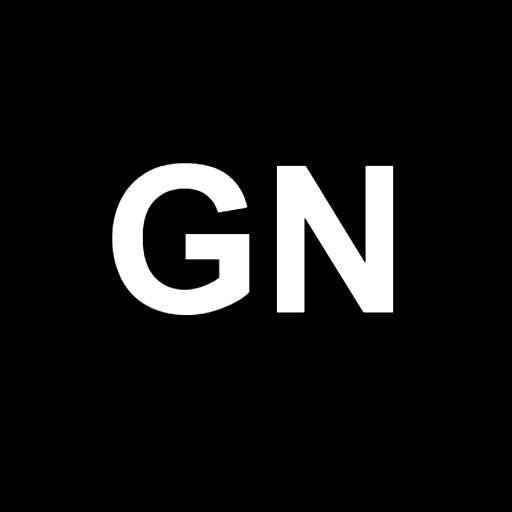
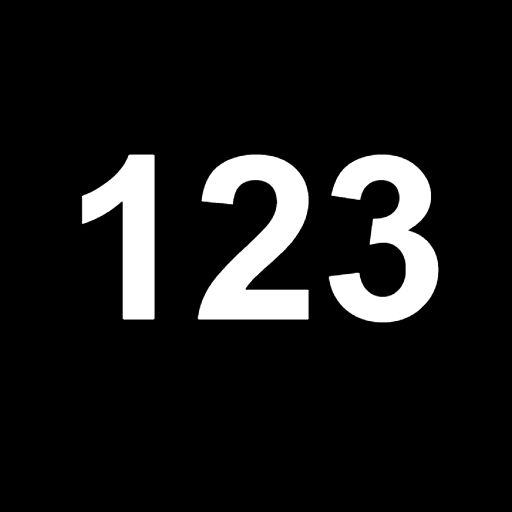
Major page enhancements.
Replaced the list selector for icon sizes with actual multi selectable checkboxes.
Added zip generation for icons to the downloads section of the page.
Added automatic manifest.json generation to the downloads section of the page.
Made it so the headings for generating and downloading icons are now hidden unless the buttons associated with them are pressed.
Added a combo box for selecting common icon sizes.

Changed region(s): [[0.1562, 0.2812, 0.875, 0.6562]]

diff --git a/code.js b/code.js
@@ -1,0 +1,160 @@
+function toggleCustomText()
+{
+    const style = document.getElementById("iconStyle").value;
+    const section = document.getElementById("customTextSection");
+
+    if(style === "custom")
+        section.style.display = "block";
+    else
+        section.style.display = "none";
+}
+
+function getText()
+{
+    const style = document.getElementById("iconStyle").value;
+    const custom = document.getElementById("customText").value;
+
+    if(style === "custom" && custom.trim() !== "")
+        return custom.substring(0,3);
+
+    return style;
+}
+
+function getSelectedSizes()
+{
+    const boxes = document.querySelectorAll("#iconSizes input[type=checkbox]");
+    const sizes = [];
+
+    boxes.forEach(box=>{
+        if(box.checked)
+        {
+            sizes.push(parseInt(box.value));
+        }
+    });
+
+    return sizes;
+}
+
+function drawIcon(size)
+{
+    const canvas = document.createElement("canvas");
+    canvas.width = size;
+    canvas.height = size;
+
+    const ctx = canvas.getContext("2d");
+
+    const bg = document.getElementById("bgColor").value;
+    const fg = document.getElementById("textColor").value;
+    const text = getText();
+
+    ctx.fillStyle = bg;
+    ctx.fillRect(0,0,size,size);
+
+    ctx.fillStyle = fg;
+    ctx.font = "bold " + (size * 0.45) + "px sans-serif";
+    ctx.textAlign = "center";
+    ctx.textBaseline = "middle";
+
+    ctx.fillText(text,size/2,size/2);
+
+    return canvas;
+}
+
+function generatePreview()
+{
+    document.getElementById("previewSection").style.display = "block";
+
+    const sizes = getSelectedSizes();
+
+    if(sizes.length === 0)
+    {
+        speak("Please select at least one icon size.");
+        return;
+    }
+
+    const preview = document.getElementById("previewCanvas");
+    const ctx = preview.getContext("2d");
+
+    const icon = drawIcon(sizes[0]);
+
+    preview.width = sizes[0];
+    preview.height = sizes[0];
+
+    ctx.clearRect(0,0,preview.width,preview.height);
+    ctx.drawImage(icon,0,0);
+
+    speak("Preview generated.");
+}
+
+function createManifest(sizes)
+{
+    const icons = [];
+
+    sizes.forEach(size=>{
+        icons.push({
+            src: "icon-" + size + ".png",
+            sizes: size + "x" + size,
+            type: "image/png"
+        });
+    });
+
+    return {
+        name: "Game",
+        short_name: "Game",
+        display: "standalone",
+        start_url: ".",
+        icons: icons
+    };
+}
+
+async function downloadIcons()
+{
+    document.getElementById("downloadSection").style.display = "block";
+
+    const downloads = document.getElementById("downloads");
+    downloads.innerHTML = "Preparing icon pack...";
+
+    const sizes = getSelectedSizes();
+
+    if(sizes.length === 0)
+    {
+        speak("Please select at least one icon size.");
+        return;
+    }
+
+    const zip = new JSZip();
+
+    for(const size of sizes)
+    {
+        const canvas = drawIcon(size);
+
+        const dataURL = canvas.toDataURL("image/png");
+
+        const base64 = dataURL.split(",")[1];
+
+        zip.file("icon-" + size + ".png", base64, {base64:true});
+    }
+
+    const manifest = createManifest(sizes);
+
+    zip.file(
+        "manifest.json",
+        JSON.stringify(manifest,null,2)
+    );
+
+    const blob = await zip.generateAsync({type:"blob"});
+
+    const url = URL.createObjectURL(blob);
+
+    const link = document.createElement("a");
+
+    link.href = url;
+    link.download = "pwa-icon-pack.zip";
+
+    link.innerText = "Download icon pack (ZIP)";
+
+    downloads.innerHTML = "";
+    downloads.appendChild(link);
+
+    speak("Icon pack ready for download.");
+}

diff --git a/index.html b/index.html
@@ -5,7 +5,9 @@
 <title>AccessibleIconGenerator</title>
 
 <link rel="stylesheet" href="style.css">
-<script src="app.js"></script>
+
+<script src="https://cdn.jsdelivr.net/npm/jszip@3.10.1/dist/jszip.min.js"></script>
+<script src="code.js"></script>
 <script src="modules/speech.js"></script>
 
 </head>
@@ -18,7 +20,7 @@
 
 <label for="iconStyle">Icon style</label><br>
 
-<select id="iconStyle">
+<select id="iconStyle" onchange="toggleCustomText()">
 <option value="123">123</option>
 <option value="?">?</option>
 <option value="custom">Custom text</option>
@@ -26,8 +28,14 @@
 
 <br><br>
 
+<div id="customTextSection" style="display:none">
+
 <label for="customText">Custom text</label><br>
-<input id="customText" type="text"><br><br>
+<input id="customText" type="text">
+
+</div>
+
+<br><br>
 
 <label for="bgColor">Background color</label><br>
 
@@ -54,16 +62,42 @@
 
 <br><br>
 
+<fieldset>
+
+<legend>Icon sizes</legend>
+
+<label><input type="checkbox" value="48"> 48</label><br>
+<label><input type="checkbox" value="72"> 72</label><br>
+<label><input type="checkbox" value="96"> 96</label><br>
+<label><input type="checkbox" value="128"> 128</label><br>
+<label><input type="checkbox" value="144"> 144</label><br>
+<label><input type="checkbox" value="192" checked> 192</label><br>
+<label><input type="checkbox" value="256"> 256</label><br>
+<label><input type="checkbox" value="384"> 384</label><br>
+<label><input type="checkbox" value="512" checked> 512</label><br>
+
+</fieldset>
+
+<br><br>
+
 <button onclick="generatePreview()">Generate Preview</button><br>
-<button onclick="downloadIcons()">Generate Download Links</button><br>
+<button onclick="downloadIcons()">Generate Icon Pack (ZIP)</button><br>
+
+<div id="previewSection" style="display:none">
 
 <h2>Preview</h2>
 
-<canvas id="previewCanvas" width="192" height="192"></canvas>
+<canvas id="previewCanvas" width="192" height="192" aria-label="Icon preview"></canvas>
 
-<h2>Downloads</h2>
+</div>
+
+<div id="downloadSection" style="display:none">
+
+<h2>Download</h2>
 
 <div id="downloads"></div>
+
+</div>
 
 </body>
 </html>
